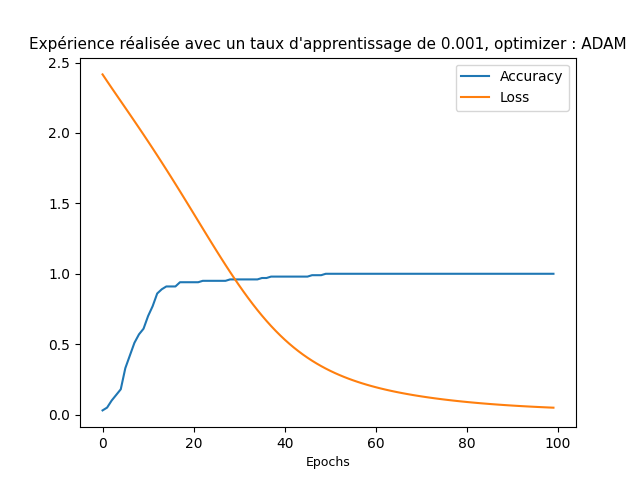
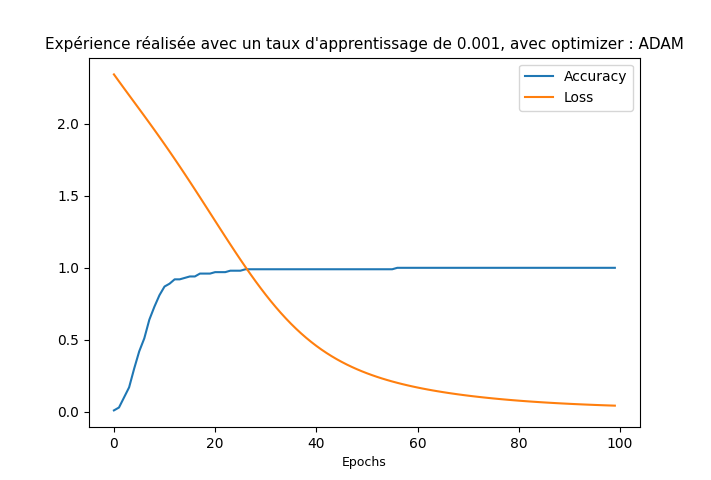
update code with 2 optimizers

diff --git a/tp1.py b/tp1.py
@@ -26,8 +26,8 @@ def test(model, data, target):
 
     return acc
 
-def train(model, data, target, nEpoch, learningRate): #la training loop (iterate) 
-    optim = torch.optim.Adam(model.parameters(), lr=learningRate) #ADAM variante de SGD
+def train(model, data, target, nEpoch,optim,learningRate): #la training loop (iterate) 
+    #optim = torch.optim.Adam(model.parameters(), lr=learningRate) #ADAM variante de SGD
     #optim=torch.optim.SGD(model.parameters(), lr=learningRate)
     criterion = nn.CrossEntropyLoss()
 
@@ -88,44 +88,85 @@ def toytest(): #expérience
     runTimes = []
     nbEpochBeforeMaxAcc = []
     nbOfExperiences = 4
-
+    choix_optimizer=input('choose type of Optimizer: 1)ADAM or 2)SGD ')
     x,y=genData(100, 500)
-    for i in range(nbOfExperiences):
-        print(f"Début de l'expérience {i+1}...")
-        model = Net(100,10)
-        
-        print("Données pour l'expérience:")
-        print(f"x:   {x} \ny:   {y}")
-        start = time.time()
-        epochVector, accVector, lossVector, nbIter = train(model, x, y, nEpoch, lrs[i])
-        end = time.time()
-        runTimes.append(end - start)
-        nbEpochBeforeMaxAcc.append(nbIter)
-        print("Temps d'apprentissage d'environ: %f s" % runTimes[-1])
-        print(f"Nombre d'epochs pour avoir une précision de 100%: {nbIter}")
+    if(choix_optimizer=='1'):
+        for i in range(nbOfExperiences):
+            print(f"Début de l'expérience {i+1} avec optimizer ADAM")
+            model = Net(100,10)
+            optim = torch.optim.Adam(model.parameters(), lr=lrs[i])
 
-        #traçage des graphes
-        plt.plot(epochVector, accVector, label="Accuracy")
-        plt.plot(epochVector, lossVector, label="Loss")
-        plt.legend(loc="upper right")
-        plt.xlabel('Epochs', fontsize=9)
-        plt.title(f"Expérience réalisée avec un taux d'apprentissage de {lrs[i]}", fontsize= 11)
+            print("Données pour l'expérience:")
+            print(f"x:   {x} \ny:   {y}")
+            start = time.time()
+            epochVector, accVector, lossVector, nbIter = train(model, x, y, nEpoch,optim, lrs[i])
+            end = time.time()
+            runTimes.append(end - start)
+            nbEpochBeforeMaxAcc.append(nbIter)
+            print("Temps d'apprentissage d'environ: %f s" % runTimes[-1])
+            print(f"Nombre d'epochs pour avoir une précision de 100%: {nbIter}")
+
+            #traçage des graphes
+            plt.plot(epochVector, accVector, label="Accuracy")
+            plt.plot(epochVector, lossVector, label="Loss")
+            plt.legend(loc="upper right")
+            plt.xlabel('Epochs', fontsize=9)
+            plt.title(f"Expérience réalisée avec un taux d'apprentissage de {lrs[i]}, avec optimizer : ADAM", fontsize= 11)
+            plt.show()
+            print(f"Fin de l'expérience {i+1}.\n")
+        plt.subplot(3, 1, 1)
+        plt.plot([1, 2, 3, 4], runTimes, label="Temps d'apprentissage")
+        plt.legend(loc="upper right", prop={'size': 9})
+
+        plt.ylabel("Temps d'apprentissage en s", fontsize=8)
+        plt.title("Évolution du temps d'apprentissage entre les expériences", fontsize=11)
+
+        plt.subplot(3, 1, 3)
+        plt.plot([1, 2, 3, 4], nbEpochBeforeMaxAcc, label=f"Nombre d'epochs avant {100}% de précision", color='r')
+        plt.legend(loc="upper right", fontsize= 9)
+        plt.xlabel("n° d'expérience", fontsize= 9)
+        plt.ylabel("Nombre d'epochs", fontsize= 8)
+        plt.title("Évolution du nombre d'epochs necessaire entre les expériences", fontsize= 11)
         plt.show()
-        print(f"Fin de l'expérience {i+1}.\n")
-    plt.subplot(3, 1, 1)
-    plt.plot([1, 2, 3, 4], runTimes, label="Temps d'apprentissage")
-    plt.legend(loc="upper right", prop={'size': 9})
+    elif(choix_optimizer=='2'):
+        for i in range(nbOfExperiences):
+            print(f"Début de l'expérience {i+1} avec optimizer SGD")
+            model = Net(100,10)
+            optim = torch.optim.SGD(model.parameters(), lr=lrs[i])
 
-    plt.ylabel("Temps d'apprentissage en s", fontsize=8)
-    plt.title("Évolution du temps d'apprentissage entre les expériences", fontsize=11)
+            print("Données pour l'expérience:")
+            print(f"x:   {x} \ny:   {y}")
+            start = time.time()
+            epochVector, accVector, lossVector, nbIter = train(model, x, y, nEpoch,optim, lrs[i])
+            end = time.time()
+            runTimes.append(end - start)
+            nbEpochBeforeMaxAcc.append(nbIter)
+            print("Temps d'apprentissage d'environ: %f s" % runTimes[-1])
+            print(f"Nombre d'epochs pour avoir une précision de 100%: {nbIter}")
 
-    plt.subplot(3, 1, 3)
-    plt.plot([1, 2, 3, 4], nbEpochBeforeMaxAcc, label=f"Nombre d'epochs avant {100}% de précision", color='r')
-    plt.legend(loc="upper right", fontsize= 9)
-    plt.xlabel("n° d'expérience", fontsize= 9)
-    plt.ylabel("Nombre d'epochs", fontsize= 8)
-    plt.title("Évolution du nombre d'epochs necessaire entre les expériences", fontsize= 11)
-    plt.show()
+            #traçage des graphes
+            plt.plot(epochVector, accVector, label="Accuracy")
+            plt.plot(epochVector, lossVector, label="Loss")
+            plt.legend(loc="upper right")
+            plt.xlabel('Epochs', fontsize=9)
+            plt.title(f"Expérience réalisée avec un taux d'apprentissage de {lrs[i]}, avec optimizer : SGD", fontsize= 11)
+            plt.show()
+            print(f"Fin de l'expérience {i+1}.\n")
+        plt.subplot(3, 1, 1)
+        plt.plot([1, 2, 3, 4], runTimes, label="Temps d'apprentissage")
+        plt.legend(loc="upper right", prop={'size': 9})
 
+        plt.ylabel("Temps d'apprentissage en s", fontsize=8)
+        plt.title("Évolution du temps d'apprentissage entre les expériences", fontsize=11)
+
+        plt.subplot(3, 1, 3)
+        plt.plot([1, 2, 3, 4], nbEpochBeforeMaxAcc, label=f"Nombre d'epochs avant {100}% de précision", color='r')
+        plt.legend(loc="upper right", fontsize= 9)
+        plt.xlabel("n° d'expérience", fontsize= 9)
+        plt.ylabel("Nombre d'epochs", fontsize= 8)
+        plt.title("Évolution du nombre d'epochs necessaire entre les expériences", fontsize= 11)
+        plt.show()
+    else:
+        print('choose 1 or 2')
 if __name__ == "__main__":
     toytest()

diff --git a/README.md b/README.md
@@ -73,7 +73,7 @@ L'optimizer a piqué notre attention, du coup nous avons décidé de comparer en
 Les résultats montrent que l'optimizer d'ADAM marche en général mieux que celui du SGD.
 Pour un learning rate de 0.001, on trouve les résultats suivants:
 
-    - Avec SGD, le modèle ne converge pas .
+    - Avec SGD, le modèle nécessite plus d'itérations pour converger.
     - Avec ADAM, le modèle converge.
 
 ![image](Figure_1_SGD.png)
